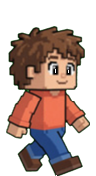
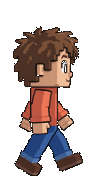
fix: remove backwards-leg walk frames (v1.9.007)
Body-flop opposite frames mirrored boots so feet pointed the wrong way.
Replace with correctly drawn strides (toes face travel direction). Drop the
flip hack entirely — slight cycle variation beats inverted legs.

diff --git a/js/core/constants.js b/js/core/constants.js
@@ -1,6 +1,6 @@
 /** Engine constants — version, viewport, physics. Content catalogs live in content/. */
 
-export const GAME_VERSION = '1.9.006';
+export const GAME_VERSION = '1.9.007';
 export const GAME_VERSION_LABEL = 'v' + GAME_VERSION;
 export const GAME_NAME = 'Blockbound';
 

diff --git a/index.html b/index.html
@@ -155,6 +155,6 @@
   </div>
 
   <!-- ?v= busts sticky SW/browser caches when version bumps -->
-  <script type="module" src="js/main.js?v=1.9.006"></script>
+  <script type="module" src="js/main.js?v=1.9.007"></script>
 </body>
 </html>

diff --git a/sw.js b/sw.js
@@ -1,5 +1,5 @@
 // Blockbound — keep CACHE in sync with GAME_VERSION in js/core/constants.js
-const CACHE = 'blockbound-1.9.006';
+const CACHE = 'blockbound-1.9.007';
 
 const ASSETS = [
   './',
